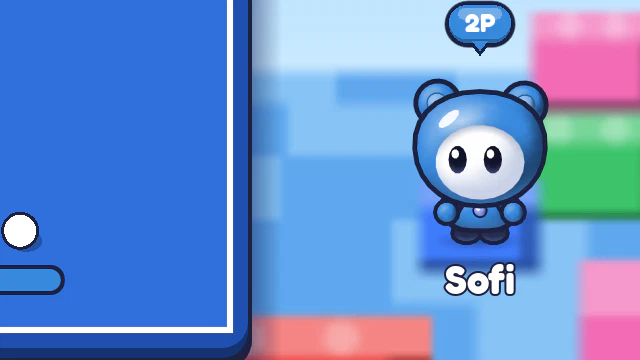
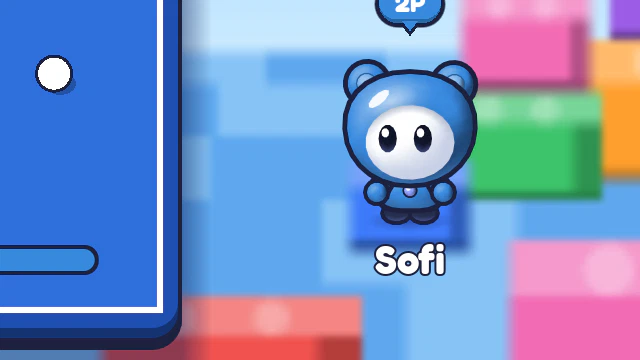
Resumen y podio con el arte de los juegos; miniaturas más cerca
- Resumen de ronda: el marcador de arriba usa GameArt.paint_hud /
  paint_hud_text y make_portrait (píldoras [1P | mascota | total] y la
  ronda en la píldora arcoíris); los totales cuentan redibujando solo
  la capa de números.
- "+30/+50/…" en una placa del color del jugador (PointsBadge) con
  contorno grueso de tinta y texto UiTheme.text_on; queda arriba de la
  mascota con POINTS_BADGE_GAP de aire (orejas y antena no la pisan).
- Nombres en chapita [1P | nombre] (NamePlate) en resumen y podio; en
  el podio los puntos van en un visor oscuro sobre el bloque y el 4°
  usa la misma chapita.
- Pedestal: color suelto -> UiTheme.CHIP_DARK; unidad a 24 px.
- Miniaturas: encuadres más cerrados (solo entradas existentes de
  SHOTS) y los 7 assets/thumbs regenerados.
- docs/img: round_summary, final y lobby_full.
- Draw calls: round_summary 232 -> 187, final 161 -> 115.

Claude-Session: https://claude.ai/code/session_016xnHVUnW38TmAZSdvZGH7C

diff --git a/docs/adr/0009-arte-de-los-juegos.md b/docs/adr/0009-arte-de-los-juegos.md
@@ -14,6 +14,7 @@ La maqueta `docs/design/referencia_juego_pintar.webp` ("Pintar el piso") muestra
 - **Globito 1P–4P y nombre** (`MiniGame.draw_player_tags`): todos los globitos en un lote y todas las letras después (contornos primero, rellenos después) para que el motor las junte. Si arriba lo taparía el marcador, el globito va al costado de la cabeza.
 - **Lo fijo de cada juego se dibuja una vez** (`MiniGame.draw_static(fn)`): mesa de Ping Pong, paneles y cajitas de Reloj exacto, tribunas de Empujones. Carrera de toques arma su lote fijo una vez y lo vuelve a mandar en cada frame (`TriBatch.draw`).
 - **Baldosas de Pintar el piso precalculadas** por jugador (`GameArt.tile_template`): relieve y patrón como triángulos locales; una fila entera es un `append_array` por baldosa y un draw call.
+- **Resumen de ronda y podio con el mismo lenguaje**: el marcador del resumen (`ScoreBar`) usa `GameArt.paint_hud`/`paint_hud_text` y `make_portrait` (no hay otro dibujo de píldoras). Nombres y puntos nunca van sueltos sobre el cielo: chapita `NamePlate` [1P | nombre] y placa `PointsBadge` ("+70") con contorno grueso de tinta y texto `UiTheme.text_on(color)`; la placa deja `POINTS_BADGE_GAP` de aire sobre la mascota (orejas y antena no la pisan). En el podio los puntos van en un visor oscuro sobre el bloque.
 - **Brillo de premios** (`GameArt.add_glow`): degradé radial y rayos que giran, con formas y colores cacheados.
 
 ## Motivos

diff --git a/.claude/skills/diseno-tv/SKILL.md b/.claude/skills/diseno-tv/SKILL.md
@@ -11,7 +11,7 @@ description: Sistema visual y reglas de UI de Party Games (TV y celular). Usar a
 |---|---|
 | `core/ui/ui_theme.gd` | Tokens (colores, medidas), tema de Godot, fábricas (`label`, `headline`) y funciones de dibujo (`draw_hex_chip`, `draw_round_rect`, `draw_star`…) |
 | `core/ui/widgets/` | Compartidos: `PartyBackground` (escenario desenfocado detrás de la UI, se prepara una vez; tokens `BG_*`, ADR 0008), `PlayerAvatar` (mascotas), `HexChip` |
-| `host/ui/widgets/` | Solo TV: `GameCard`, `Stepper`, `SeatCard`, `ScorePedestal`, `ScoreBar`, `Confetti`, `KeyHint`, `Transition` (barrido de bloques entre pantallas) |
+| `host/ui/widgets/` | Solo TV: `GameCard`, `Stepper`, `SeatCard`, `ScorePedestal`, `ScoreBar` (marcador del resumen con el arte de los juegos), `NamePlate` (chapita [1P | nombre]), `PointsBadge` (placa "+70"), `Confetti`, `KeyHint`, `Transition` (barrido de bloques entre pantallas) |
 | `host/ui/*_screen.gd` | Pantallas: lobby, intro "¿Cómo se juega?", resumen de ronda, podio, pausa |
 
 ## Reglas
